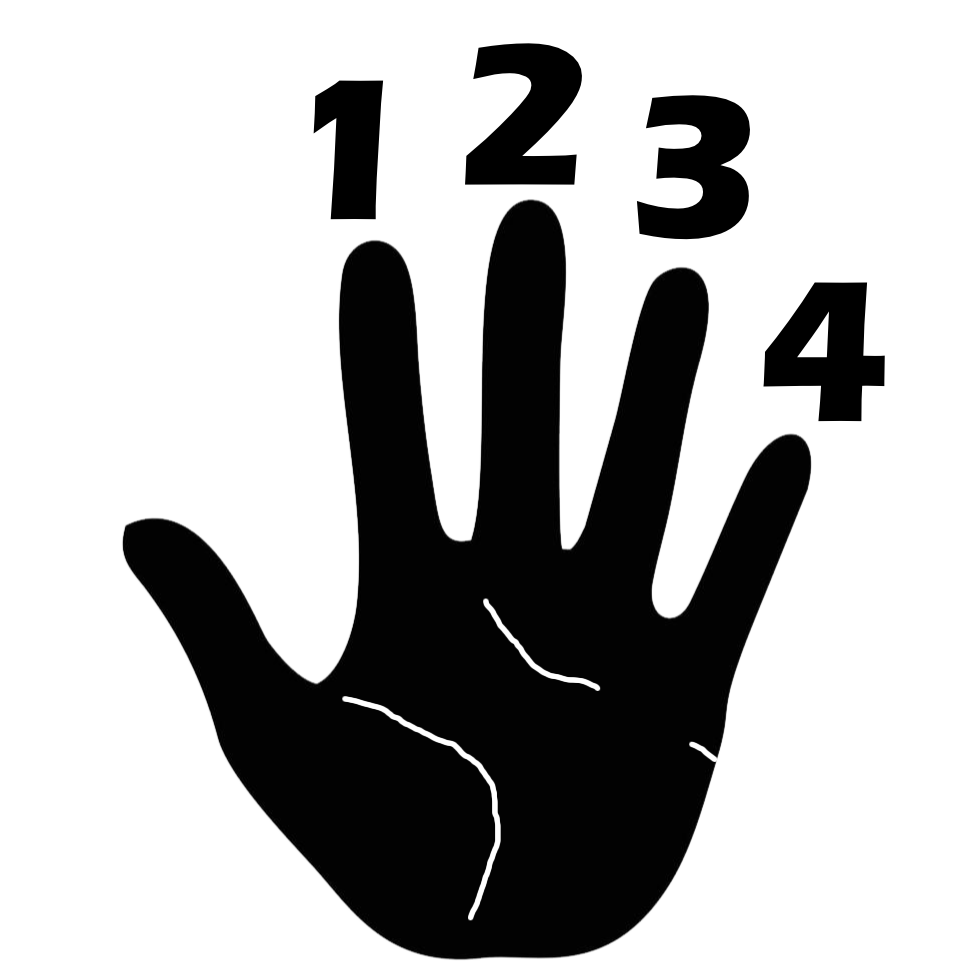
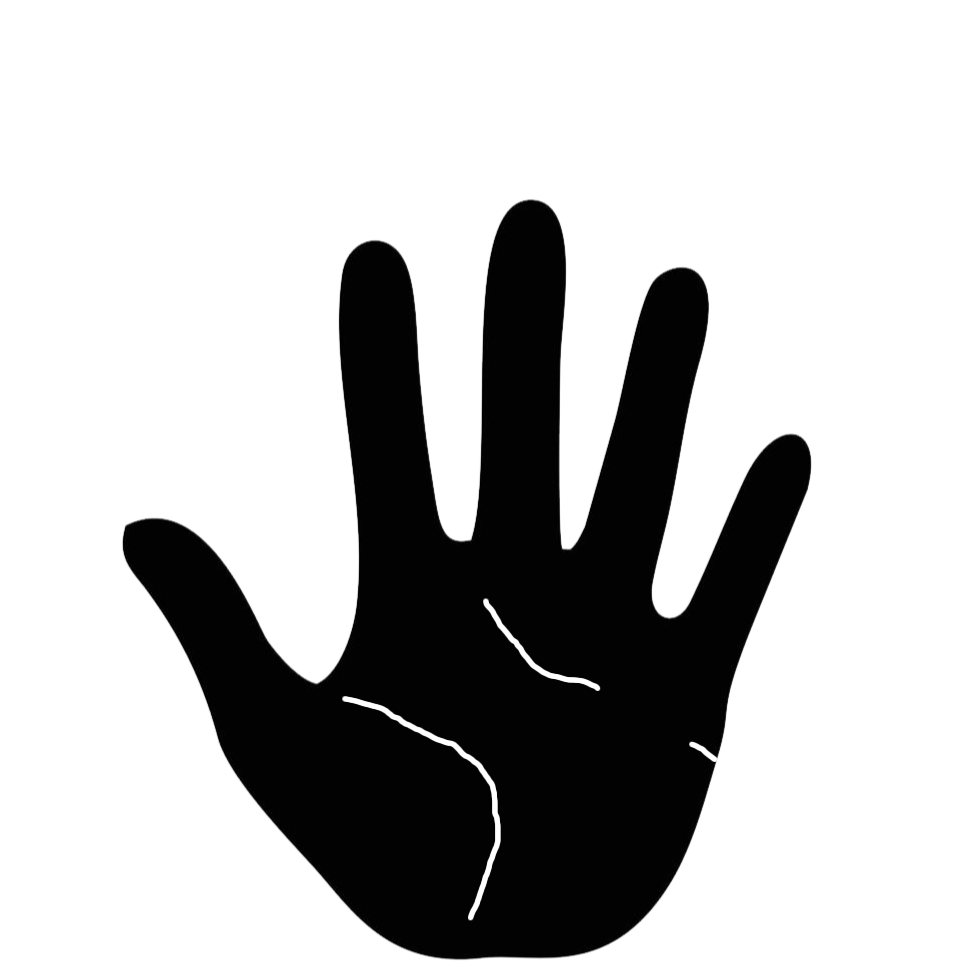
empty commit message

diff --git a/styles/assessment.css b/styles/assessment.css
@@ -150,75 +150,6 @@
     margin-bottom: 2rem;
 }
 
-.play-chord-btn {
-    margin-top: 0.25rem;
-    padding: 0.5rem 1rem;
-    border-radius: 0.5rem;
-    background: #523F39;
-    color: #fff;
-    border: none;
-    font-weight: 600;
-    cursor: pointer;
-}
-
-.play-chord-msg {
-    min-height: 1.2rem;
-    margin-top: 0.5rem;
-    color: #fef3c7;
-    text-shadow: #000000 0px 0px 4px;
-    font-size: 0.9rem;
-}
-
-.chord-video-modal {
-    position: fixed;
-    inset: 0;
-    background: rgba(0, 0, 0, 0.7);
-    display: grid;
-    place-items: center;
-    z-index: 2200;
-    padding: 1rem;
-}
-
-.chord-video-card {
-    width: min(420px, 94vw);
-    background: #1f2937;
-    border: 1px solid #4b5563;
-    border-radius: 12px;
-    padding: 0.7rem;
-    box-shadow: 0 14px 35px rgba(0, 0, 0, 0.5);
-}
-
-.chord-video-top {
-    display: flex;
-    align-items: center;
-    justify-content: space-between;
-    gap: 0.5rem;
-    margin-bottom: 0.5rem;
-}
-
-.chord-video-top h3 {
-    margin: 0;
-    color: #f9fafb;
-    font-size: 1rem;
-}
-
-.chord-video-top button {
-    border: 0;
-    border-radius: 8px;
-    background: #523F39;
-    color: #fff;
-    padding: 0.35rem 0.6rem;
-    font-size: 0.85rem;
-    cursor: pointer;
-}
-
-#chordVideoPlayer {
-    width: 100%;
-    max-height: 52vh;
-    border-radius: 8px;
-    background: #000;
-}
-
 .options-section {
     margin-bottom: 2rem;
 }

diff --git a/scripts/assessment.js b/scripts/assessment.js
@@ -5,55 +5,12 @@ const TOTAL_QUESTIONS = 5;
 
 let chordPatterns = {};
 let availableChords = [];
-let rowsByName = {};
 
 let currentQuestion = 0;
 let score = 0;
 let currentChordKey = '';
 let selectedAnswer = null;
 let questionsAsked = [];
-
-function hideVideoPlayer() {
-  const modal = document.getElementById('chordVideoModal');
-  const video = document.getElementById('chordVideoPlayer');
-  if (!modal || !video) return;
-
-  modal.hidden = true;
-  video.pause();
-  video.removeAttribute('src');
-  video.load();
-}
-
-function openVideoPlayer(videoUrl) {
-  const modal = document.getElementById('chordVideoModal');
-  const video = document.getElementById('chordVideoPlayer');
-  const title = document.getElementById('chordVideoTitle');
-  const msg = document.getElementById('playChordMsg');
-
-  if (!modal || !video) return;
-
-  if (!videoUrl) {
-    if (msg) {
-      msg.textContent = 'No video yet for this chord.';
-    }
-    return;
-  }
-
-  if (msg) msg.textContent = '';
-  if (title) title.textContent = 'Listen to the chord';
-
-  video.src = videoUrl;
-  modal.hidden = false;
-  video.currentTime = 0;
-  video.play().catch(() => {
-    // Ignore autoplay restrictions.
-  });
-}
-
-function playCurrentChord() {
-  const row = rowsByName[currentChordKey];
-  openVideoPlayer(row?.videoUrl || '');
-}
 
 function renderChordDiagram(chordKey, containerId) {
   const currentChord = chordPatterns[chordKey];
@@ -195,7 +152,6 @@ function displayQuestion() {
     }
 
     renderChordDiagram(currentChordKey, 'assessmentDiagram');
-    hideVideoPlayer();
     displayOptions();
     clearFeedback();
     updateProgressBar();
@@ -301,8 +257,6 @@ function updateProgressBar() {
 }
 
 function showResults() {
-  hideVideoPlayer();
-
   const percentage = Math.round((score / TOTAL_QUESTIONS) * 100);
   const scoreDisplay = document.getElementById('scoreDisplay');
   const percentageDisplay = document.getElementById('percentageDisplay');
@@ -341,7 +295,6 @@ function switchScreen(screenId) {
 }
 
 function resetAssessment() {
-  hideVideoPlayer();
   currentQuestion = 0;
   score = 0;
   selectedAnswer = null;
@@ -390,7 +343,6 @@ document.addEventListener('DOMContentLoaded', async () => {
     const data = await fetchChordLibrary();
     chordPatterns = data.chordPatterns;
     availableChords = data.availableChords;
-    rowsByName = data.rowsByName || {};
 
     if (availableChords.length < TOTAL_QUESTIONS) {
       showDataLoadError('Not enough chord data found in the database to run the assessment.');
@@ -410,21 +362,6 @@ document.addEventListener('DOMContentLoaded', async () => {
     if (restartBtn) {
       restartBtn.addEventListener('click', resetAssessment);
     }
-
-    const playBtn = document.getElementById('playChordBtn');
-    if (playBtn) {
-      playBtn.addEventListener('click', playCurrentChord);
-    }
-
-    const closeVideoBtn = document.getElementById('closeChordVideo');
-    closeVideoBtn?.addEventListener('click', hideVideoPlayer);
-
-    const videoBackdrop = document.getElementById('chordVideoModal');
-    videoBackdrop?.addEventListener('click', (e) => {
-      if (e.target === videoBackdrop) {
-        hideVideoPlayer();
-      }
-    });
 
     switchScreen('startScreen');
   } catch (error) {

diff --git a/styles/globals.css b/styles/globals.css
@@ -96,8 +96,66 @@ body {
     pointer-events: none;
 }
 
-.diagram-guide-image {
+.guide-hand-map {
     width: 150px;
+    position: relative;
+}
+
+.guide-finger-overlay {
+    position: absolute;
+    inset: 0;
+}
+
+.guide-finger-number {
+    position: absolute;
+    width: 1.45rem;
+    height: 1.45rem;
+    border-radius: 999px;
+    display: flex;
+    align-items: center;
+    justify-content: center;
+    background: rgba(15, 23, 42, 0.2);
+    border: 1px solid rgba(255, 255, 255, 0.6);
+    color: rgba(255, 255, 255, 0.55);
+    font-size: 0.72rem;
+    font-weight: 700;
+    transform: translate(-50%, -50%);
+    opacity: 0;
+    visibility: hidden;
+    transition: opacity 0.2s ease, transform 0.2s ease;
+}
+
+.guide-finger-number.finger-1 {
+    left: 38%;
+    top: 27%;
+}
+
+.guide-finger-number.finger-2 {
+    left: 53%;
+    top: 19%;
+}
+
+.guide-finger-number.finger-3 {
+    left: 68%;
+    top: 30%;
+}
+
+.guide-finger-number.finger-4 {
+    left: 79%;
+    top: 45%;
+}
+
+.guide-finger-number.is-active {
+    background: #1e293b;
+    border-color: #ffffff;
+    color: #ffffff;
+    opacity: 1;
+    visibility: visible;
+    transform: translate(-50%, calc(-50% - 1px));
+}
+
+.diagram-guide-image {
+    width: 100%;
     height: auto;
     border-radius: 4px;
 }

diff --git a/scripts/chord-library.js b/scripts/chord-library.js
@@ -153,6 +153,11 @@ function renderDiagram() {
   if (!diagramContainer) return;
 
   const currentChord = getChordPattern(selectedRoot, selectedType);
+  const usedFingerNumbers = new Set(
+    currentChord.fingers
+      .map((value) => String(value).trim())
+      .filter((value) => ['1', '2', '3', '4'].includes(value)),
+  );
 
   if (currentChord.isPlaceholder) {
     diagramContainer.innerHTML = `
@@ -268,7 +273,14 @@ function renderDiagram() {
         </div>
       </div>
       <div class="diagram-guide" aria-hidden="true">
-        <img class="diagram-guide-image" src="../assets/images/FingerPlacement.png" alt="Finger Placement Guide">
+        <div class="guide-hand-map" aria-hidden="true">
+          <img class="diagram-guide-image" src="../assets/images/FingerPlacement.png" alt="Finger Placement Guide">
+          <div class="guide-finger-overlay" aria-hidden="true">
+            ${['1', '2', '3', '4']
+              .map((finger) => `<span class="guide-finger-number finger-${finger}${usedFingerNumbers.has(finger) ? ' is-active' : ''}">${finger}</span>`)
+              .join('')}
+          </div>
+        </div>
       </div>
     </div>
   `;

diff --git a/pages/assessment.html b/pages/assessment.html
@@ -42,8 +42,6 @@
         <div class="diagram-section">
           <h3>What chord is this?</h3>
           <div id="assessmentDiagram" class="assessment-diagram"></div>
-          <button id="playChordBtn" class="play-chord-btn" aria-label="Play chord">Play</button>
-          <p id="playChordMsg" class="play-chord-msg"></p>
         </div>
 
         <!-- Multiple Choice Options -->
@@ -78,16 +76,6 @@
         <p id="resultMessage" class="result-message"></p>
         <button id="restartBtn" class="restart-button">Try Again</button>
       </div>
-    </div>
-  </div>
-
-  <div id="chordVideoModal" class="chord-video-modal" hidden>
-    <div class="chord-video-card" role="dialog" aria-modal="true" aria-labelledby="chordVideoTitle">
-      <div class="chord-video-top">
-        <h3 id="chordVideoTitle">Chord Video</h3>
-        <button id="closeChordVideo" type="button" aria-label="Close chord video">Close</button>
-      </div>
-      <video id="chordVideoPlayer" controls playsinline preload="metadata"></video>
     </div>
   </div>
 